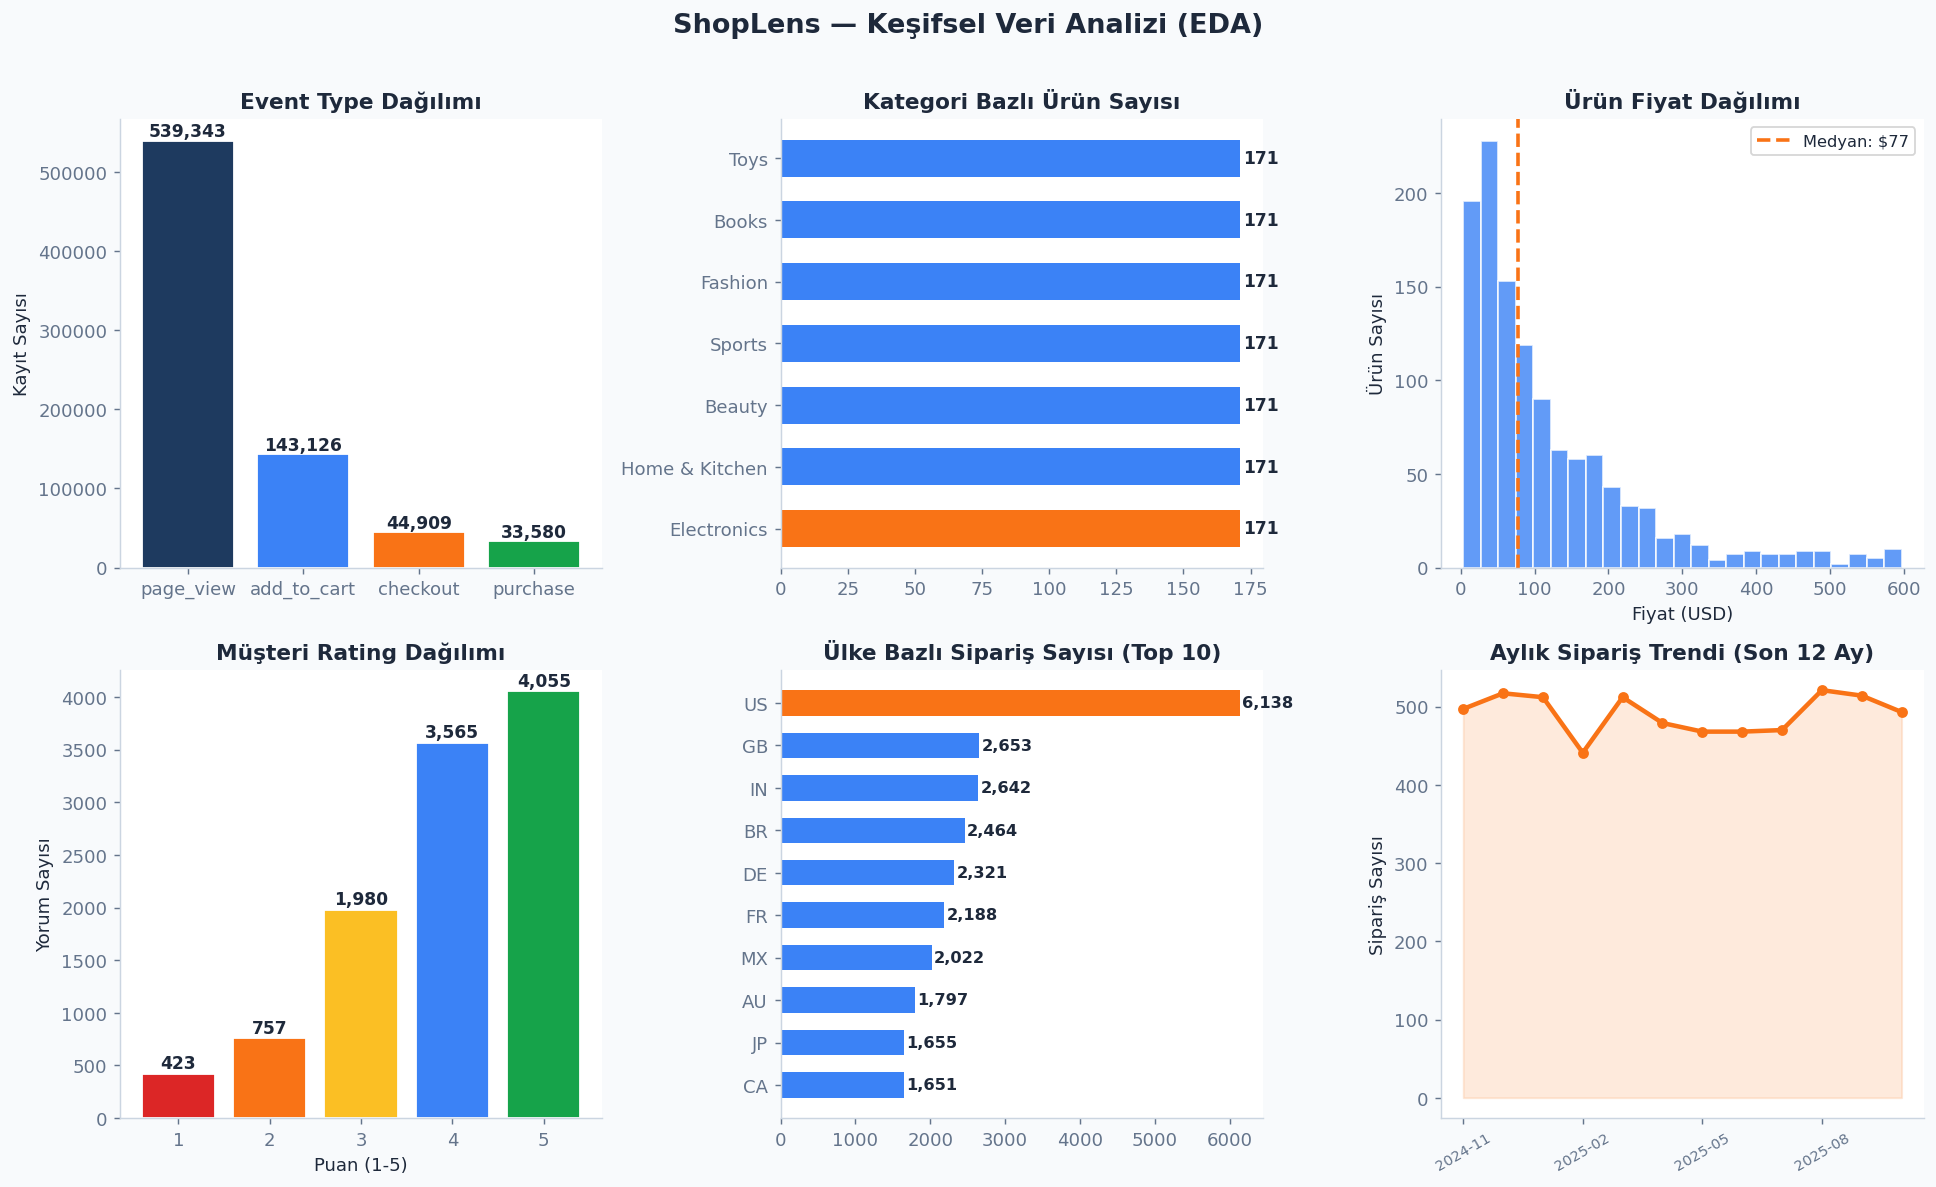
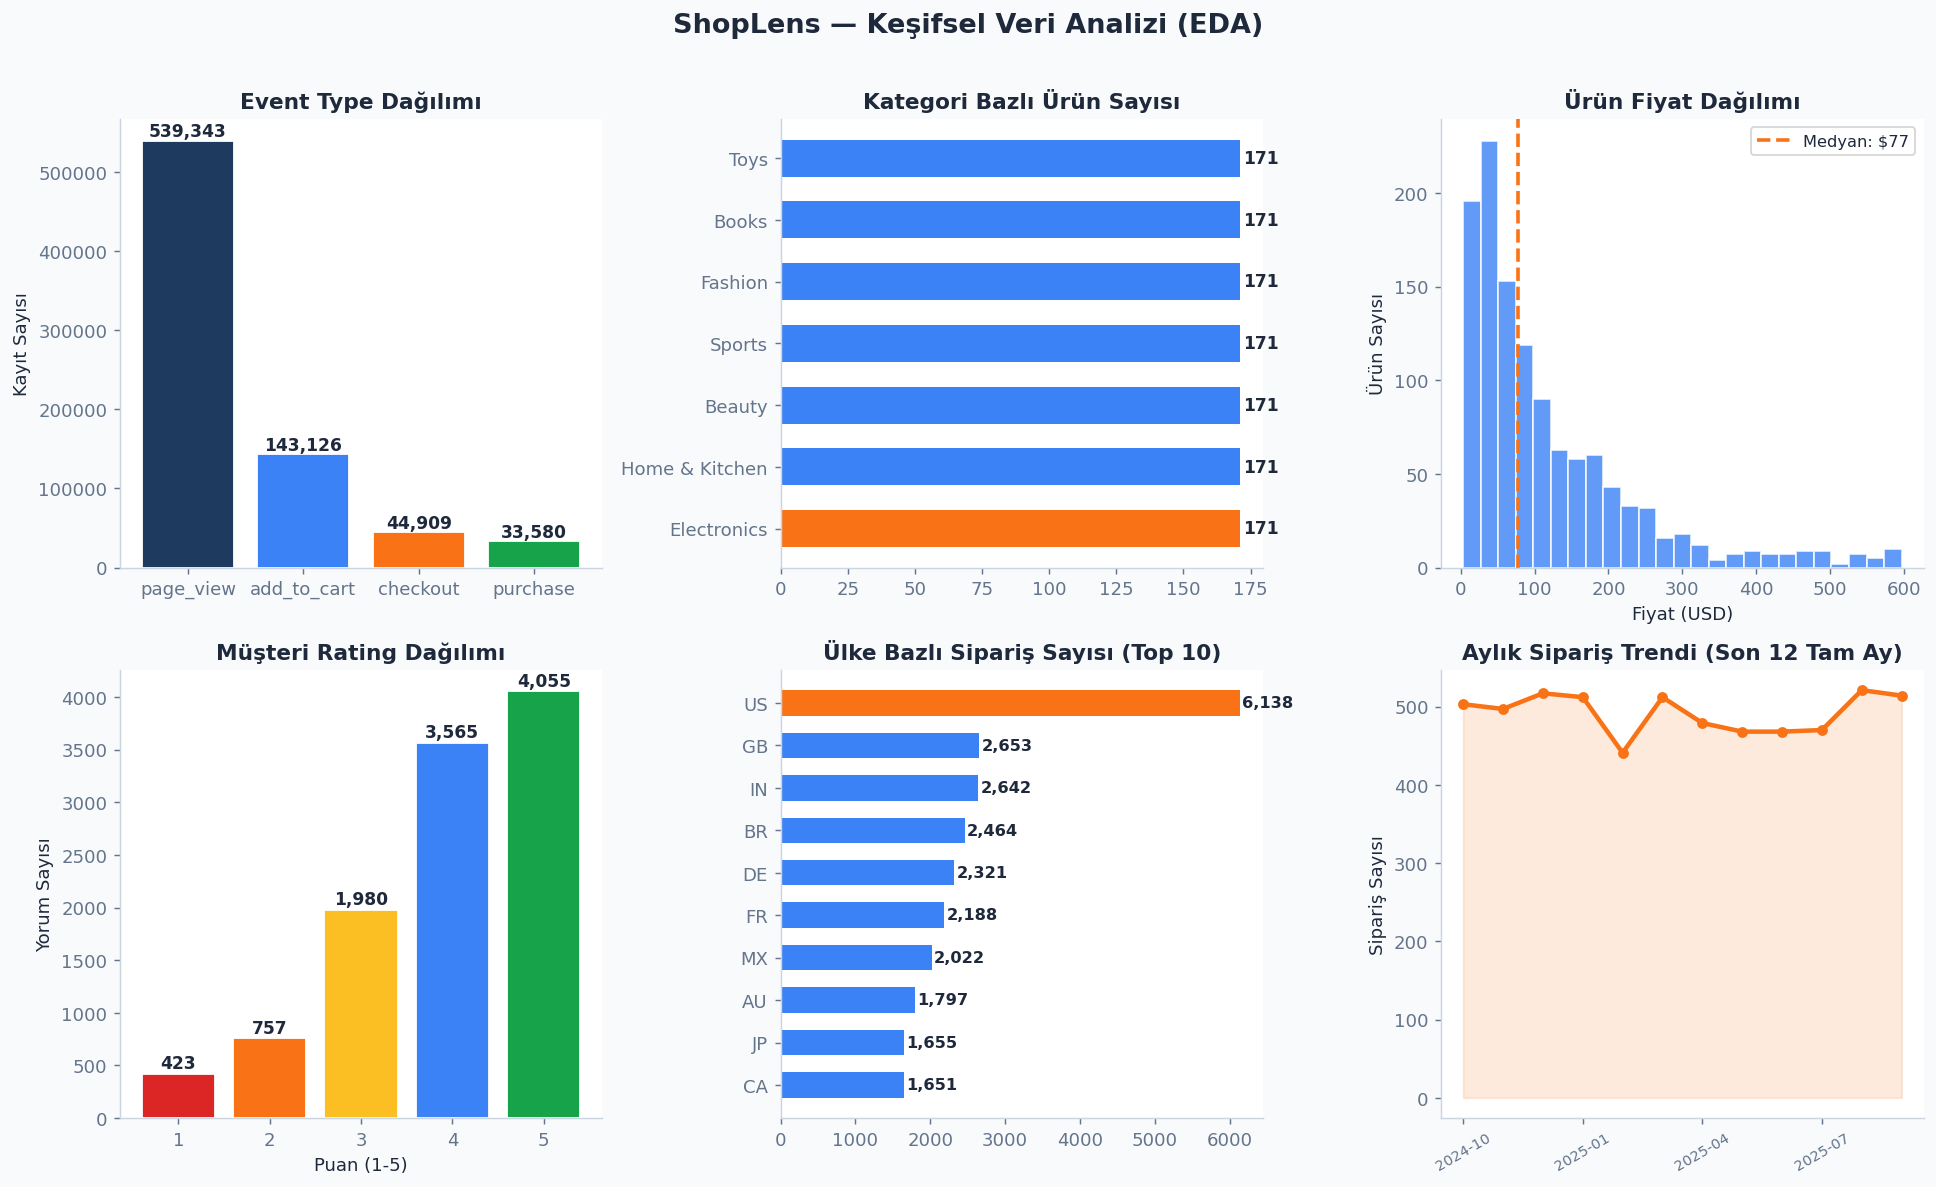
Finalize dashboard metrics and presentation sync

Changed region(s): [[0.7438, 0.5299, 0.9917, 0.6546]]

diff --git a/dashboard.py b/dashboard.py
@@ -12,10 +12,19 @@ import plotly.graph_objects as go
 import streamlit as st
 import streamlit.components.v1 as components
 from pathlib import Path
+from datetime import datetime
 from sklearn.preprocessing import MinMaxScaler
 from joblib import load
 
 warnings.filterwarnings("ignore")
+
+
+def dosya_zamani(path):
+    """Bir output dosyasının son güncelleme zamanını okunur biçimde döndürür."""
+    try:
+        return datetime.fromtimestamp(Path(path).stat().st_mtime).strftime("%d.%m.%Y %H:%M")
+    except Exception:
+        return "bilinmiyor"
 
 # =============================================================================
 # SAYFA AYARI
@@ -1058,8 +1067,20 @@ elif sayfa == "EDA":
     with b2:
         try:
             events_tmp = pd.read_csv("data/events.csv", parse_dates=["timestamp"])
-            events_tmp["ay"] = events_tmp["timestamp"].dt.to_period("M").astype(str)
-            aylik = events_tmp.groupby("ay").size().reset_index(name="n").tail(18)
+            events_tmp["ay_period"] = events_tmp["timestamp"].dt.to_period("M")
+            aylik = (
+                events_tmp.groupby("ay_period")
+                .size()
+                .reset_index(name="n")
+                .sort_values("ay_period")
+            )
+            son_ay = events_tmp["timestamp"].max().to_period("M")
+            tamamlanan_aylar = aylik[aylik["ay_period"] < son_ay].copy()
+            son_ay_cikarildi = len(tamamlanan_aylar) >= 6
+            if son_ay_cikarildi:
+                aylik = tamamlanan_aylar
+            aylik = aylik.tail(18).copy()
+            aylik["ay"] = aylik["ay_period"].astype(str)
             if aylik.empty:
                 st.info("Aylık trend grafiği için yeterli tarih bilgisi bulunamadı.")
             else:
@@ -1067,11 +1088,14 @@ elif sayfa == "EDA":
                     mode="lines+markers", line=dict(color=TURUNCU, width=2.5),
                     marker=dict(size=5, color=TURUNCU),
                     fill="tozeroy", fillcolor="rgba(249,115,22,0.07)"))
-                tema(fig, h=300, baslik="Aylık Etkileşim Trendi (Son 18 Ay)",
+                tema(fig, h=300, baslik="Aylık Etkileşim Trendi (Son 18 Tam Ay)",
                      xaxis=dict(**EKSEN, title="", tickangle=-30),
                      yaxis=dict(**EKSEN, title="Etkileşim Sayısı"))
                 st.plotly_chart(fig, use_container_width=True)
-                st.caption("📌 Son 18 aylık hareket, trafik hacminin dönemsel olarak nasıl değiştiğini gösterir. Bu grafik kampanya, sezon ve veri kesim dönemi etkisini okumak için kullanılır.")
+                not_metni = "📌 Grafik tamamlanan ayları gösterir; kampanya ve sezon etkisini okumak için kullanılır."
+                if son_ay_cikarildi:
+                    not_metni += " Veri setindeki tamamlanmamış son ay grafiğe alınmadı; bu yüzden yapay düşüş oluşmaz."
+                st.caption(not_metni)
         except Exception as hata:
             st.warning(f"Aylık trend grafiği oluşturulamadı: {hata}")
 
@@ -1273,9 +1297,10 @@ elif sayfa == "Model":
       Genel ürün modelinde <strong>satış oranı</strong> modele verilmedi; çünkü önerilir / önerilmez etiketi
       satış oranını da dikkate alan ağırlıklı <strong>öneri skoru</strong> üzerinden oluşturuldu.
       Bu alanı tekrar modele vermek, cevabın bir kısmını modele göstermek olurdu.
-      Kişiye özel modelde ise <strong>satın aldı</strong>, sipariş sonucu ve satış adedi gibi hedefi doğrudan
-      gösteren alanlar modele verilmedi. Bu model kesin satış kararı vermek için değil, ürünleri
-      müşteri bazında önceliklendirmek için kullanıldı.
+	      Kişiye özel modelde ise <strong>satın aldı</strong>, sipariş sonucu ve satış adedi gibi hedefi doğrudan
+	      gösteren alanlar modele verilmedi. Ayrıca genel ürün performansını çok doğrudan özetleyen
+	      <strong>öneri skoru</strong> ve ürün bazlı <strong>sepet oranı</strong> da eğitim değişkenlerinden çıkarıldı.
+	      Bu model kesin satış kararı vermek için değil, ürünleri müşteri bazında önceliklendirmek için kullanıldı.
     </div>
     """, unsafe_allow_html=True)
 
@@ -1349,6 +1374,13 @@ elif sayfa == "Model":
       </div>
     </div>
     """, unsafe_allow_html=True)
+
+    genel_cikti_zamani = dosya_zamani("outputs/model_met.csv")
+    kisisel_cikti_zamani = dosya_zamani("outputs/kisisel_model_met.csv")
+    st.caption(
+        f"📌 Bu bölümdeki model metrikleri sabit yazılmadı; pipeline çıktılarından okunur. "
+        f"Genel ürün modeli: {genel_cikti_zamani}, kişiye özel model: {kisisel_cikti_zamani}."
+    )
 
     st.markdown("<br>",unsafe_allow_html=True)
     st.markdown('''<div class="sec-head" style="margin-top:4px">🧭 İki Modelin Rolü</div>''',
@@ -1466,7 +1498,11 @@ elif sayfa == "Model":
              xaxis=dict(**EKSEN,title="Tahmin"),
              yaxis=dict(**EKSEN,title="Gerçek",autorange="reversed"))
         st.plotly_chart(fig, use_container_width=True)
-        st.caption("📌 Confusion Matrix modelin doğru ve yanlış kararlarını gösterir. Bu testte model 185 ürünü doğru şekilde önerilmez, 69 ürünü doğru şekilde önerilir olarak sınıflandırmıştır; 25 yanlış pozitif ve 21 yanlış negatif karar vardır.")
+        st.caption(
+            f"📌 Confusion Matrix modelin doğru ve yanlış kararlarını gösterir. Bu testte model "
+            f"{sayi_yaz(tn)} ürünü doğru şekilde önerilmez, {sayi_yaz(tp)} ürünü doğru şekilde önerilir "
+            f"olarak sınıflandırmıştır; {sayi_yaz(fp)} yanlış pozitif ve {sayi_yaz(fn)} yanlış negatif karar vardır."
+        )
     with c2:
         fig = go.Figure()
         fig.add_trace(go.Scatter(x=fpr,y=tpr,mode="lines",
@@ -1483,7 +1519,10 @@ elif sayfa == "Model":
                          bordercolor="#E2E8F0",borderwidth=1,
                          font=dict(color="#334155",size=10)))
         st.plotly_chart(fig, use_container_width=True)
-        st.caption("📌 ROC eğrisi modelin önerilir ve önerilmez sınıflarını ayırma gücünü gösterir. AUC değerinin 0.913 olması, modelin rastgele tahminden çok daha güçlü bir ayrım yaptığını gösterir.")
+        st.caption(
+            f"📌 ROC eğrisi modelin önerilir ve önerilmez sınıflarını ayırma gücünü gösterir. "
+            f"AUC değerinin {auc_val:.3f} olması, modelin rastgele tahminden daha güçlü bir ayrım yaptığını gösterir."
+        )
 
     st.markdown("<br>", unsafe_allow_html=True)
     st.markdown('''<div class="sec-head" style="margin-top:8px">👤 Kişiye Özel Öneri Sıralama Modeli Grafikleri</div>''',
@@ -1553,7 +1592,7 @@ elif sayfa == "Model":
         veri["ad"] = veri["ozellik"].map(OZELLIK_AD).fillna(veri["ozellik"])
         veri_s = veri.sort_values("onem")
         renkler = [ana_renk if i == len(veri_s) - 1 else MAVI for i in range(len(veri_s))]
-        ust_sinir = max(float(veri_s["onem"].max()) * 1.18, 0.05)
+        ust_sinir = max(float(veri_s["onem"].max()) * 1.30, 0.05)
 
         fig = go.Figure(go.Bar(
             y=veri_s["ad"],
@@ -1572,7 +1611,7 @@ elif sayfa == "Model":
             xaxis=dict(**EKSEN, title="Göreceli Önem", range=[0, ust_sinir]),
             yaxis=dict(**EKSEN),
         )
-        fig.update_layout(margin=dict(l=10, r=80, t=45, b=18))
+        fig.update_layout(margin=dict(l=20, r=125, t=45, b=24))
         return fig, veri.sort_values("onem", ascending=False).reset_index(drop=True)
 
     of1, of2 = st.columns(2)
@@ -1606,10 +1645,21 @@ elif sayfa == "Duygu":
     st.markdown('''<div class="sec-head">💬 Yorum Duygusu ve Rating Analizi <span class="sec-tag">VADER + Rating Hibrit</span></div>''',
                 unsafe_allow_html=True)
 
-    st.markdown("""
+    try:
+        yorum_ozet = pd.read_csv("outputs/duygu_metin_ozeti.csv").iloc[0]
+        toplam_yorum_ozet = int(yorum_ozet.get("toplam_yorum", len(duygu_df)))
+        benzersiz_yorum = int(yorum_ozet.get("benzersiz_yorum_metni", 0))
+    except Exception:
+        toplam_yorum_ozet = len(duygu_df)
+        benzersiz_yorum = int(duygu_df["review_text"].nunique()) if "review_text" in duygu_df.columns else 0
+
+    toplam_yorum_yaz = f"{toplam_yorum_ozet:,}".replace(",", ".")
+    benzersiz_yorum_yaz = f"{benzersiz_yorum:,}".replace(",", ".")
+    st.markdown(f"""
     <div class="info-box">
-      <strong>Yöntem: VADER + Rating Hibrit</strong> — VADER sözlük tabanlı duygu analizi yapar.
-      Ancak bu veri setinde "Okay overall" (compound=0.226) VADER'ı pozitif sayar, rating=3 olduğundan aslında nötrdür.
+      <strong>Yöntem: VADER + Rating Hibrit</strong> — yorum metninin duygu skoru rating bilgisiyle birlikte yorumlandı.
+      Bu veri setinde {toplam_yorum_yaz} yorum satırı içinde {benzersiz_yorum_yaz} benzersiz yorum metni bulunduğu için
+      yalnızca metin skoruna güvenmek yerine rating desteği kullanıldı.
       Hibrit kural: <em>compound &gt; 0.3 VE rating ≥ 4 → pozitif, compound &lt; -0.1 VEYA rating ≤ 2 → negatif, diğerleri → nötr</em>
     </div>
     """, unsafe_allow_html=True)

diff --git a/pipeline.py b/pipeline.py
@@ -326,9 +326,15 @@ def keşifsel_veri_analizi(events, ev_temiz, products, reviews, orders,
     ax.spines[["top", "right"]].set_visible(False)
 
     # ── 6. Aylık sipariş trendi
+    # Son ay tamamlanmamışsa grafiğe alınmaz; aksi halde trend grafiği
+    # gerçek olmayan sert bir düşüş varmış gibi yorumlanabilir.
     ax = axes[1, 2]
     orders["ay"] = pd.to_datetime(orders["order_time"]).dt.to_period("M")
-    aylik = orders.groupby("ay").size().reset_index(name="siparis")
+    aylik = orders.groupby("ay").size().reset_index(name="siparis").sort_values("ay")
+    son_ay = pd.to_datetime(orders["order_time"]).max().to_period("M")
+    tamamlanan_aylar = aylik[aylik["ay"] < son_ay].copy()
+    if len(tamamlanan_aylar) >= 3:
+        aylik = tamamlanan_aylar
     aylik["ay_str"] = aylik["ay"].astype(str)
     son_12 = aylik.tail(12)
     ax.plot(range(len(son_12)), son_12["siparis"].values,
@@ -337,7 +343,7 @@ def keşifsel_veri_analizi(events, ev_temiz, products, reviews, orders,
                     alpha=0.15, color=TURUNCU)
     ax.set_xticks(range(0, len(son_12), 3))
     ax.set_xticklabels(son_12["ay_str"].values[::3], rotation=30, fontsize=8)
-    ax.set_title("Aylık Sipariş Trendi (Son 12 Ay)", fontsize=12, fontweight="bold")
+    ax.set_title("Aylık Sipariş Trendi (Son 12 Tam Ay)", fontsize=12, fontweight="bold")
     ax.set_ylabel("Sipariş Sayısı")
     ax.spines[["top", "right"]].set_visible(False)
 
@@ -524,10 +530,10 @@ def duygu_analizi(reviews):
       - Compound skoru: -1 (çok negatif) ↔ +1 (çok pozitif)
 
     Neden sadece VADER yeterli değil?
-      Bu veri setinde 5 farklı yorum metni var, tekrarlı kullanılmış.
-      "Okay overall" → compound=0.226 → VADER bu yorumu pozitif sayar.
-      Ama bu metnin rating'i 3 → gerçekte nötr olmalı.
-      Gerçek rating bilgisi ile hibrit karar daha doğru sonuç verir.
+      Bu veri setinde yorum metinleri kısa ve tekrarlı.
+      Bazı nötr yorumlar metin skoru açısından pozitif görünebilir.
+      Bu yüzden rating=3 gibi orta puanlı yorumlar nötr kabul edilerek
+      metin skoru rating bilgisiyle birlikte yorumlandı.
 
     Hibrit Karar Kuralı:
       compound > 0.3  VE rating ≥ 4 → pozitif

diff --git a/README.md b/README.md
@@ -81,7 +81,7 @@ Bütün tabloları tek seferde büyük bir tabloya çevirmedim. Çünkü her tab
 2. **Kişisel model tablosu:** `outputs/kisisel_model_verisi.csv`  
    Her satır bir müşteri-ürün eşleşmesini temsil eder. Modelin sorusu şudur: “Bu müşteri için hangi ürünler daha öncelikli önerilmeli?”
 
-Ürün bazlı tabloda hesaplanan `oneri_skoru`, `pozitif_oran`, `sepet_orani`, `ort_rating` gibi ürün sinyalleri daha sonra `product_id` üzerinden kişisel model tablosuna eklendi.
+Ürün bazlı tabloda hesaplanan ürün sinyalleri `product_id` üzerinden kişisel model tablosuna eklendi. Ancak hedef değişkenden doğrudan türeyen `oneri_skoru` ve ürün bazlı `satis_orani` kişisel modelde özellik olarak kullanılmadı; böylece modelin cevabı ezberlemesi engellendi.
 
 ## Eksik Verilerle Nasıl Baş Ettim?
 
@@ -166,7 +166,7 @@ Her iki modelde de Random Forest kullandım. Karar ağaçları mantığıyla ça
 | Model | AUC | Doğruluk | Precision | Recall | F1 |
 |---|---:|---:|---:|---:|---:|
 | Genel ürün modeli | 0.913 | %84.7 | %73.4 | %76.7 | 0.750 |
-| Kişiye özel öneri sıralama modeli | 0.955 | %88.3 | %48.7 | %99.96 | 0.655 |
+| Kişiye özel öneri sıralama modeli | 0.954 | %88.2 | %48.5 | %99.99 | 0.653 |
 
 Kişisel modelde recall değerinin çok yüksek olması, test verisinde satın alma yapan müşteri-ürün çiftlerinin neredeyse hiç kaçırılmadığını gösterir. Precision daha düşük kaldığı için bu modeli kesin satış kararı gibi değil, müşteriye gösterilecek ürünleri önceliklendiren bir aday sıralama modeli olarak yorumladım. Bu nedenle dashboardda kişisel model çıktıları “öneri önceliği” olarak gösterildi. Özellikle sepete ekleme davranışı güçlü bir sinyal olduğu için gerçek bir iş ortamında model zaman bazlı test ve canlı A/B test ile tekrar doğrulanmalıdır.
 
@@ -174,11 +174,11 @@ Kişisel modelde `add_to_cart` değişkeninin baskın olup olmadığını ayrıc
 
 | Kontrol | Sonuç |
 |---|---:|
-| Ana kişisel modelde `add_to_cart` özellik önemi | %80.5 |
-| Random Forest AUC, `add_to_cart` dahil | 0.955 |
+| Ana kişisel modelde `add_to_cart` özellik önemi | %80.8 |
+| Random Forest AUC, `add_to_cart` dahil | 0.954 |
 | Random Forest AUC, `add_to_cart` hariç | 0.752 |
 | AUC farkı | 0.202 |
-| Recall farkı | 0.146 |
+| Recall farkı | 0.143 |
 | Precision farkı | 0.300 |
 
 Bu kontrol bana şunu gösterdi: kişisel model satın alma sinyalini büyük ölçüde sepete ekleme davranışından öğreniyor. Bu beklenen bir durumdur; çünkü e-ticarette sepete ekleme satın alma niyetinin en güçlü göstergelerinden biridir. Yine de bu yüzden modeli “kesin satın alır / satın almaz” kararı olarak değil, önerilecek ürünleri sıralayan destekleyici bir model olarak kullandım.